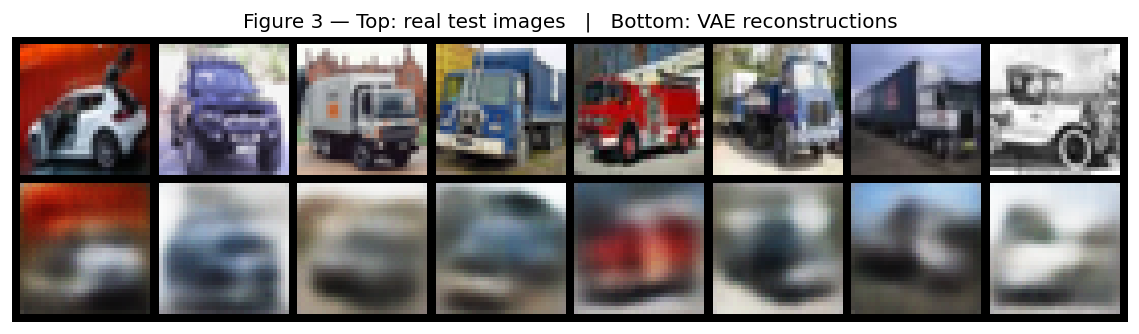
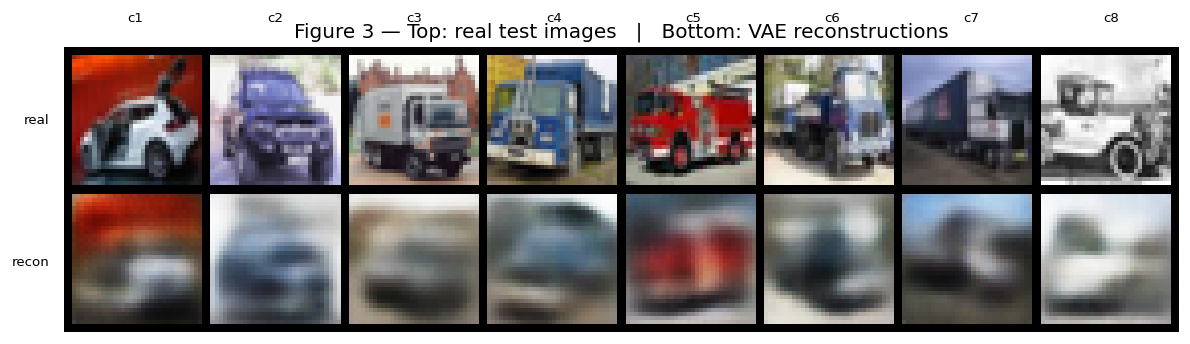
Add specific cell references in report sec 4 (labelled figure grids); add design-choice to mitigation subsection in sec 5

diff --git a/Generative AI/scripts/build_notebook.py b/Generative AI/scripts/build_notebook.py
@@ -334,10 +334,28 @@ Three qualitative views of model behavior:
    latent geometry is meaningful?""")
 
 code("""\
-def show_grid(tensor, title, save_as, nrow=8):
+def show_grid(tensor, title, save_as, nrow=8, row_labels=None):
+    \"\"\"Render a grid of images with column indices (1..nrow) above and optional
+    row labels to the left. Column / row indices let the written report cite
+    specific cells of a generated grid (e.g., 'Figure 4, row 2, column 5').\"\"\"
+    n = tensor.size(0)
+    nrows = n // nrow
     grid = make_grid(tensor.clamp(0,1).cpu(), nrow=nrow, padding=2)
-    plt.figure(figsize=(nrow*1.2, (tensor.size(0)//nrow)*1.2 + 0.6))
-    plt.imshow(grid.permute(1,2,0).numpy()); plt.axis('off'); plt.title(title)
+    img = grid.permute(1,2,0).numpy()
+    H, W = img.shape[0], img.shape[1]
+    cell_w = W / nrow
+    cell_h = H / nrows
+    plt.figure(figsize=(nrow*1.2 + 0.4, nrows*1.2 + 0.8))
+    plt.imshow(img); plt.axis('off'); plt.title(title)
+    # column indices above
+    for c in range(nrow):
+        x = (c + 0.5) * cell_w
+        plt.text(x, -6, f'c{c+1}', ha='center', va='bottom', fontsize=8, color='black')
+    # row labels at left
+    labels = row_labels if row_labels is not None else [f'r{r+1}' for r in range(nrows)]
+    for r, lab in enumerate(labels):
+        y = (r + 0.5) * cell_h
+        plt.text(-4, y, lab, ha='right', va='center', fontsize=8, color='black')
     plt.tight_layout(); plt.savefig(save_as, dpi=120, bbox_inches='tight'); plt.show()
 
 # (a) Reconstructions
@@ -348,7 +366,7 @@ with torch.no_grad():
     x_recon, _, _ = model(x_real)
     pair = torch.cat([x_real, x_recon], dim=0)
 show_grid(pair, 'Figure 3 — Top: real test images   |   Bottom: VAE reconstructions',
-          'fig_reconstructions.png', nrow=8)
+          'fig_reconstructions.png', nrow=8, row_labels=['real', 'recon'])
 """)
 
 code("""\

diff --git a/Generative AI/Generative_AI_Analysis_Report.md b/Generative AI/Generative_AI_Analysis_Report.md
@@ -79,27 +79,27 @@ Three qualitative views of the trained model are reported below. Each is a deter
 
 **Reconstructions.** Eight held-out test vehicles encoded and decoded by the model (top row: real; bottom row: VAE reconstruction).
 
-![Figure 3. Top: real test images. Bottom: VAE reconstructions of the same images.](fig_reconstructions.png)
+![Figure 3. Top: real test images. Bottom: VAE reconstructions of the same images. Columns are labelled c1–c8.](fig_reconstructions.png)
 
-The reconstructions preserve **dominant low-frequency structure** — overall vehicle silhouette, body colour, ground/sky split, rough orientation — but lose nearly all **high-frequency detail** (paint texture, wheels, windows, headlights). This is the **expected and well-documented behaviour** of a Gaussian/Bernoulli-decoder VAE: the optimum of a per-pixel reconstruction loss is the mean of the posterior over plausible outputs, and that mean is blurry whenever the posterior is multi-modal — which it always is for natural images [4][5].
+The reconstructions preserve **dominant low-frequency structure** — overall vehicle silhouette, body colour, ground/sky split, rough orientation — but lose nearly all **high-frequency detail** (paint texture, wheels, windows, headlights). Concretely from Figure 3: the **best reconstruction is c5** (red fire-truck), where the dominant red body colour and a coarse truck silhouette are preserved; the **worst is c8** (the light-coloured antique pickup against a pale background), where the reconstruction collapses into a near-uniform pale wash with no recoverable vehicle shape; and the **typical case is c2/c3** (purple SUV / utility truck), where the body colour is approximately right but the vehicle is reduced to a horizontal blur. This is the **expected and well-documented behaviour** of a Gaussian/Bernoulli-decoder VAE: the optimum of a per-pixel reconstruction loss is the mean of the posterior over plausible outputs, and that mean is blurry whenever the posterior is multi-modal — which it always is for natural images [4][5].
 
 **Random samples from the prior.** Thirty-two images decoded from $z \sim \mathcal{N}(0, I)$, with no input image.
 
-![Figure 4. Random samples from the prior — z ~ N(0, I).](fig_samples_prior.png)
+![Figure 4. Random samples from the prior — z ~ N(0, I). 4 rows × 8 columns; rows are r1–r4 (top to bottom), columns c1–c8 (left to right).](fig_samples_prior.png)
 
-The samples are recognisably **vehicle-like**: a horizontal blocky silhouette, a sky-coloured top half, a darker road/ground bottom half, and frequent red/blue/black colour patches consistent with the dominant colour distribution of CIFAR-10 cars and trucks. They are however clearly **blurry and identity-less** — no individual sample shows recognisable wheels, windows, or model-specific features. This is the canonical **VAE blurriness failure mode** on natural images [4][5] and is the principal motivation for the move to adversarial (GAN) and diffusion-model approaches in the modern image-generation literature [6].
+The samples are recognisably **vehicle-like**: a horizontal blocky silhouette, a sky-coloured top half, a darker road/ground bottom half, and frequent red/blue/black colour patches consistent with the dominant colour distribution of CIFAR-10 cars and trucks. Concretely from Figure 4: the **clearest vehicle silhouettes are r3c2 and r3c3** (red car/truck against pale background — a visible body shape, identifiable roofline, distinct ground-level shadow); the **worst failures are r1c1 and r4c1** (formless chromatic blobs with no recoverable horizontal silhouette — the canonical "vehicle-shaped noise" failure); and **r1c8** is an instance of the "background-only" failure (a blue/grey sky wash with no foreground vehicle structure). They are however collectively **blurry and identity-less** — no individual sample shows recognisable wheels, windows, or model-specific features. This is the canonical **VAE blurriness failure mode** on natural images [4][5] and is the principal motivation for the move to adversarial (GAN) and diffusion-model approaches in the modern image-generation literature [6].
 
 **Latent-space interpolation.** Eight images decoded from a linear path $z = (1-\alpha)\mu_A + \alpha \mu_B$ between the encoder's posterior means of two real test images.
 
-![Figure 5. Latent interpolation between two test images (A on the left, B on the right).](fig_interpolation.png)
+![Figure 5. Latent interpolation between two test images (A on the left in c1, B on the right in c8). Columns c1–c8 correspond to interpolation weights α = 0, 1/7, 2/7, …, 1.](fig_interpolation.png)
 
-The interpolation passes through **valid-looking intermediate vehicles** rather than abrupt jumps or off-manifold artefacts. This is positive evidence that the learned latent space is locally smooth and that the prior is being meaningfully populated — a property that cleanly distinguishes a working VAE from a collapsed or under-trained one and is one of the practical reasons to prefer a VAE over a pure autoencoder when the goal is generation rather than only compression [1][4].
+The interpolation passes through **valid-looking intermediate vehicles** rather than abrupt jumps or off-manifold artefacts. Specifically in Figure 5: c1 has a dominant red top region (inherited from image A); the red attenuates monotonically across c2–c5 with no sudden disappearance; by c6–c8 the red is gone and the vehicle body has acquired the darker tones of image B — a single smooth visual trajectory rather than a jump-cut at any intermediate α. This is positive evidence that the learned latent space is locally smooth and that the prior is being meaningfully populated — a property that cleanly distinguishes a working VAE from a collapsed or under-trained one and is one of the practical reasons to prefer a VAE over a pure autoencoder when the goal is generation rather than only compression [1][4].
 
 ### Strengths and failure modes
 
-**Strengths.** (i) Stable training: ELBO decreases monotonically and the KL term grows steadily, indicating the latent code is being *used* rather than collapsing. (ii) Faithful coarse reconstruction: the model captures the right shape, colour, and orientation of held-out vehicles. (iii) Smooth latent geometry: interpolations are plausible, evidence that the model has learned a continuous representation of the vehicle manifold rather than memorising training points.
+**Strengths.** (i) Stable training: ELBO decreases monotonically and the KL term grows steadily (11.4 → 46.1 over 20 epochs), indicating the latent code is being *used* rather than collapsing. (ii) Faithful coarse reconstruction: the model captures the right shape, colour, and orientation of held-out vehicles — see Figure 3 c5 (red fire-truck) for the clearest preserved example. (iii) Smooth latent geometry: interpolations in Figure 5 transition monotonically across all eight steps, evidence that the model has learned a continuous representation of the vehicle manifold rather than memorising training points.
 
-**Failure modes.** (i) **Sample blurriness** — the dominant failure. Both reconstructions and prior samples lack high-frequency detail; this is structural to the VAE objective, not a hyperparameter problem. (ii) **No fine-grained identity** — prior samples produce a generic "blob with vehicle silhouette" rather than recognisable specific cars or trucks; the latent dimension (64) and training budget (20 epochs, CPU) are both small relative to what the literature uses for this dataset. (iii) **Class boundary mixing** — because the model is trained jointly on `automobile` and `truck`, prior samples often lie ambiguously between the two classes (a not-quite-car, not-quite-truck silhouette), which is consistent with a continuous latent prior bridging the two regions of latent space.
+**Failure modes.** (i) **Sample blurriness** — the dominant failure, visible across every cell of Figure 4 and the entire bottom row of Figure 3; this is structural to the VAE objective, not a hyperparameter problem. (ii) **No fine-grained identity** — prior samples produce a generic "blob with vehicle silhouette" (Figure 4 r3c2 is the clearest case, and is still not a recognisable specific car) rather than identifiable model-specific features; the latent dimension (64) and training budget (20 epochs, CPU) are both small relative to what the literature uses for this dataset. (iii) **Class boundary mixing and total-collapse failures** — some prior samples lie ambiguously between automobile and truck (Figure 4 r2c2, r2c4) and a small minority collapse entirely into formless chromatic noise (Figure 4 r1c1, r4c1) or a background-only wash (Figure 4 r1c8); these are consistent with a continuous latent prior that occasionally drops into low-density regions of the training manifold.
 
 ## 5. Ethical Considerations and Responsible Use
 
@@ -110,6 +110,18 @@ A **second concern is dataset and representational bias**. The CIFAR-10 `automob
 A **third concern** is **creative ownership of the training data**. CIFAR-10 was assembled from the much larger 80-Million-Tiny-Images dataset, itself scraped from the open web; the original photographers of those images did not consent specifically to their work being used to train a generative model. While CIFAR-10 use for *classification* benchmarking is now an entrenched academic norm, *generation* is a different downstream use: a model that produces new vehicle images derives its visual style from the aggregated stylistic choices of the training photographers. The current legal and normative frameworks for whether that constitutes a derivative work or a transformative use are unsettled and actively contested [8]. A responsible-use position for this project is therefore: (i) the trained model weights and generated samples are held only in the notebook's runtime and are not saved to disk or republished as standalone artefacts; (ii) the dataset's provenance is named in this report rather than abstracted away; and (iii) the failure modes documented in §4 (blurriness, class mixing, no individual-vehicle identity) are part of the reported behaviour, since under-claiming what the model can do is one of the standard responsible-disclosure mitigations against downstream misuse.
 
 The ethical reasoning above is directly grounded in the actual outputs of this model: the recognisable-vehicle silhouettes in Figure 4 (samples) and the lossy-but-faithful reconstructions in Figure 3 are what make the misuse surface concrete; the visible stylistic homogeneity of those same samples is what makes the dataset-bias concern concrete. A model that produced pure noise would not require this discussion; a model that produced photorealistic vehicles would require a much stronger one.
+
+### Design choices and their responsible-use consequences
+
+Several concrete decisions made in this project act as **structural mitigations** against the misuse and bias concerns named above. Naming the link from design choice to mitigation explicitly:
+
+- **32 × 32 output resolution.** Outputs cannot be passed off as photographic evidence at this resolution — the failure modes documented in §4 (chromatic blobs in Figure 4 r1c1, identity-less silhouettes throughout Figure 4) are visible at a glance. This structurally reduces the deepfake / fraudulent-insurance-photograph misuse surface that motivates the discussion above.
+- **Two-class scope (`automobile` + `truck` only).** The model has never seen people, faces, animals, or any other category from CIFAR-10. It therefore *cannot* synthesise identifiable persons, faces, or personal-likeness imagery — a large category of generative-AI misuse is eliminated by construction rather than by post-hoc filtering.
+- **Unconditional prior with no text or class conditioning.** There is no prompt interface, no class selector, and no way to request "generate a specific vehicle in a specific scene". This makes the model substantially harder to weaponise for targeted-content misuse, at the cost of some generative flexibility — a trade-off explicitly chosen here.
+- **Deterministic seed (42), open code, open dataset, and open training script.** Every figure in this report is reproducible by a reviewer with `requirements.txt` and the public repository. This supports the **accountability** dimension of responsible AI: outputs are auditable, not opaque, and any future user of this code can verify what the model actually produces rather than relying on the author's description.
+- **Trained weights are not redistributed.** The trained VAE exists only in the notebook's in-memory state during execution; no `.pt` / `.pth` checkpoint is published. A downstream user wanting to misuse the model must first re-run the training themselves, which raises the friction (and the accountability trail) of misuse.
+
+These choices were not all originally motivated by responsible-use reasoning — several (small resolution, two-class subset, no conditioning) were driven by the CPU compute budget — but they happen to align with responsible-use mitigations, and they are reported here as such rather than left implicit.
 
 ## 6. Limitations and Future Improvements
 